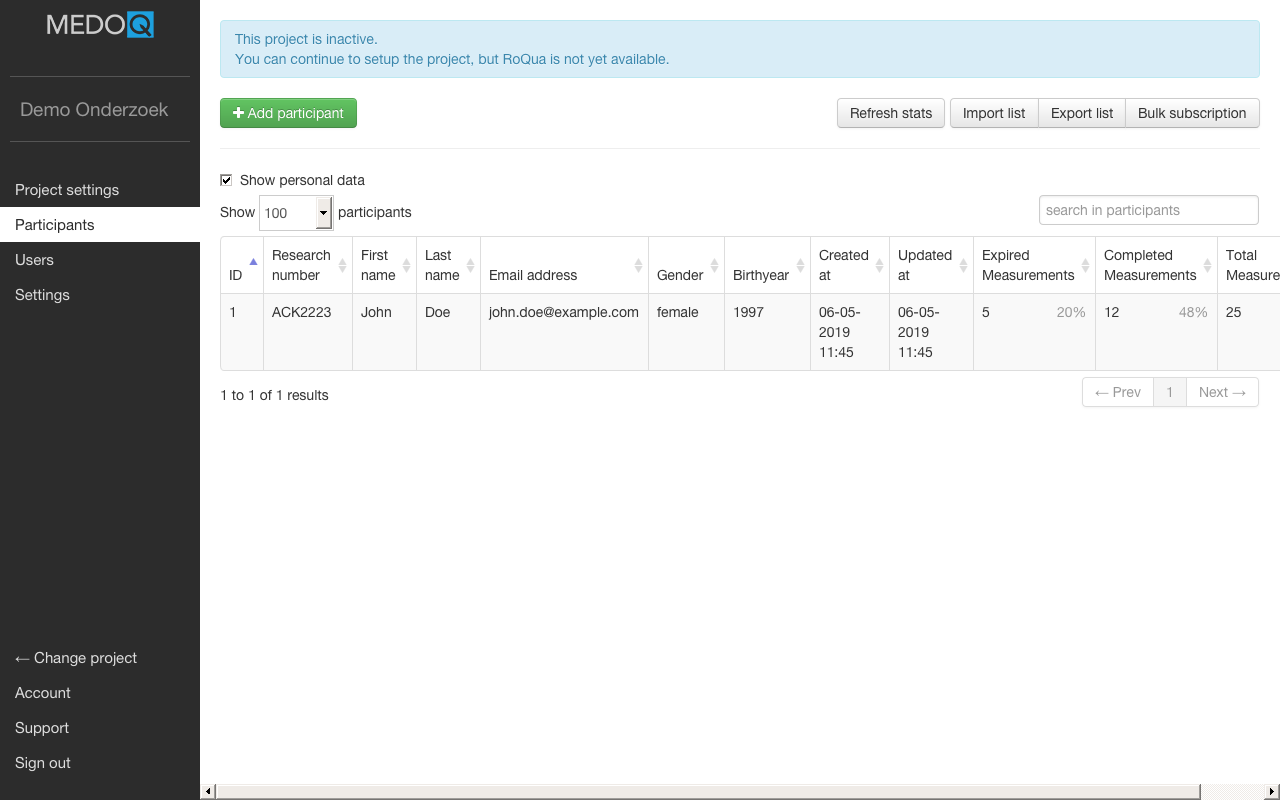
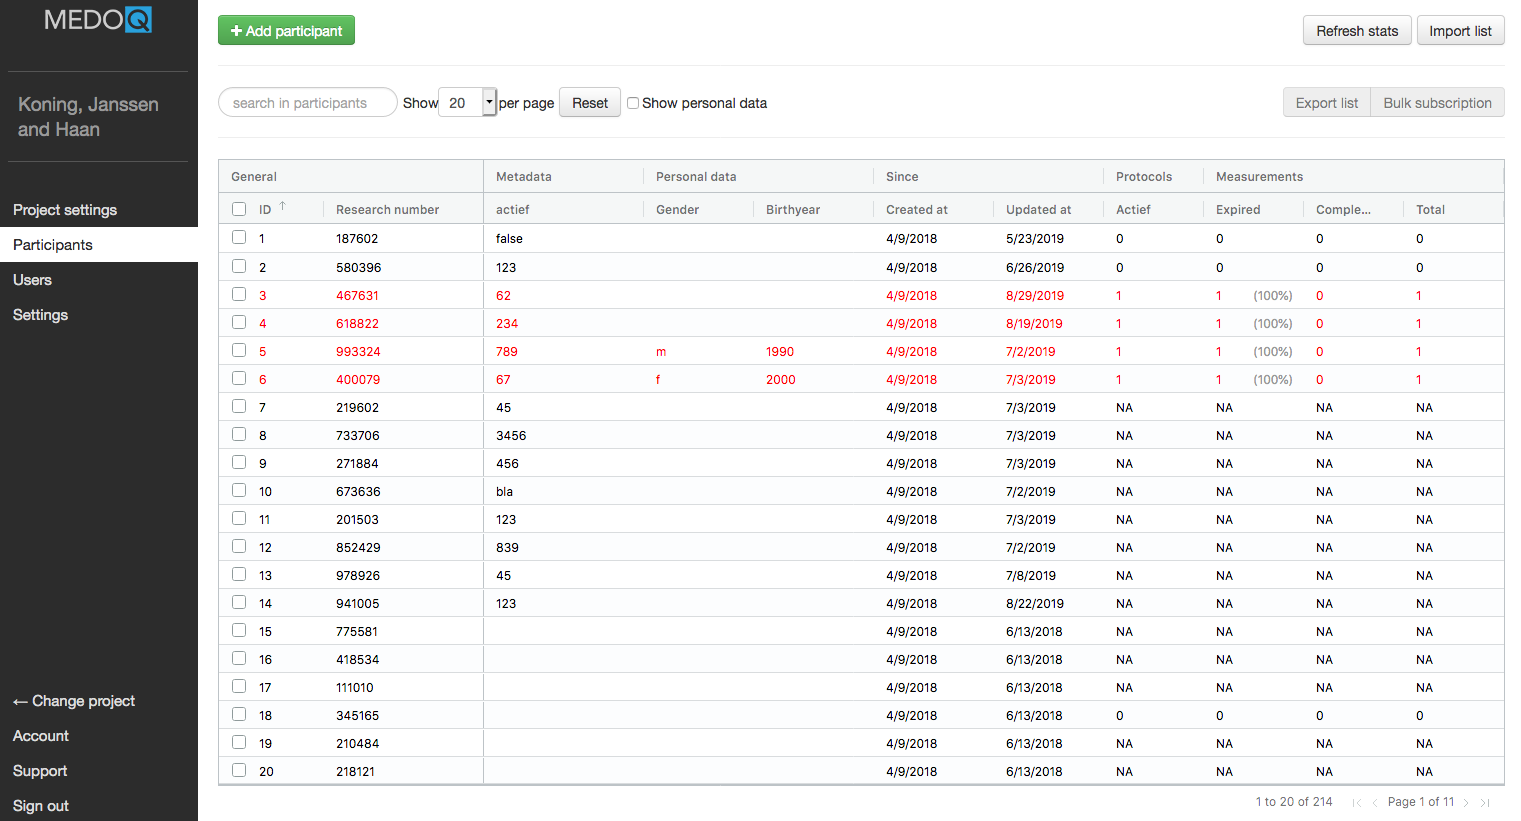
Update screenshots and add docs for new people overview table

diff --git a/content/en/medo_manual/werken_met_deelnemers.md b/content/en/medo_manual/werken_met_deelnemers.md
@@ -14,28 +14,39 @@ This page contains a table of project participants. Clicking on the column heade
 
 ### Privacy
 
-By clicking on the checkbox *Show personal data*, you can change the visibility of the table columns containing personal information. Clicking on a row in the table shows more information about the participant and allows opening RoQua for that participant.
+By clicking on the checkbox *Show personal data*, you can change the visibility of the table columns containing personal information. Double-clicking on a row in the table shows more information about the participant and allows opening RoQua for that participant.
 
 ### Statistics
 
-There are three statistics to be found on the right hand of the table:
+There are four statistics to be found on the right hand of the table:
 
+* **Active Protocols** show how many active protocols there are for the participant
 * **Expired Measurements** shows how many measurements are expired (not filled in before their expiry date)
 * **Completed Measurements** shows how many measurements are filled in
 * **Total Measurements** shows how many measurements were prepared in total
 
+### Metadata
+
+Metadata fields can be edited directly in the overview. Click on a metadata field and press enter.
+Enter a new value in the input field and press enter again to save the new value.
+
 ### Import and Export
 
-Collectors and coordinators are allowed to export the list of participants and import participants from a CSV file. Clicking on the **Import List** button brings you to a page explaining the file format for importing participants. The **Export list** button downloads a CSV-file with all personal information (excluding filled out responses) of the participants. This exported file is suitable for opening in Excel.
+Collectors and coordinators are allowed to export the list of participants and import participants from a CSV file. Clicking on the **Import List** button brings you to a page explaining the file format for importing participants. The **Export list** button downloads a CSV-file with all personal information (excluding filled out responses) of the participants. This exported file is suitable for opening in Excel. You have to select participants first with the checkboxes at the left of the table. Click on the topmost checkbox to select all participants.
+
 
 <div class="alert alert-error">
   <strong>Attention!</strong>
-  Do not import an exported file of participants. Importing any file will only create new participants for every row, so this will duplicate the participants already present. 
+  Do not import an exported file of participants. Importing any file will only create new participants for every row, so this will duplicate the participants already present.
 </div>
+
+### Bulk subscription
+
+Select participants with the checkboxes on the left, or use the topmost checkbox to select all participants, and click on the *Bulk subscription* button to subscribe participants to a protocol in RoQua.
 
 ## Showing participants
 
-By clicking on a row in the participant index, a page with extended information about the participant is show. This page is split up between anonymized and personal information. Only collectors and coordinators are allowed to view the personal information. Anonymized information can be viewed by researchers.
+By double-clicking on a row in the participant index, a page with extended information about the participant is show. This page is split up between anonymized and personal information. Only collectors and coordinators are allowed to view the personal information. Anonymized information can be viewed by researchers.
 
 <img src='/assets/images/screenshots/medo/en/deelnemersdetail.png' />
 

diff --git a/content/nl/medo_manual/werken_met_deelnemers.md b/content/nl/medo_manual/werken_met_deelnemers.md
@@ -19,15 +19,23 @@ achternaam en het e-mailadres van deelnemers bekijken.
 ### Privacy
 
 Door de optie *Persoonsgegevens tonen* uit te vinken kunnen deze gegevens ook verborgen
-worden. Klik op een rij om meer informatie over de deelnemer te bekijken, en naar RoQua te gaan.
+worden. Dubbelklik op een rij om meer informatie over de deelnemer te bekijken, en naar RoQua te gaan.
 
 ### Statistieken
 
-Rechts in de tabel zijn drie statistieken opgenomen:
+Rechts in de tabel zijn vier statistieken opgenomen:
 
+* **Active Protocollen** geeft aan hoeveel actieve protocollen er zijn voor deze deelnemer
 * **Gemiste Metingen** geeft aan hoeveel metingen er gemist zijn
 * **Ingevulde Metingen** geeft aan hoeveel er ingevuld zijn
 * **Totaal Metingen** geeft aan hoeveel metingen er in totaal klaargezet zijn
+
+### Metadata
+
+De metadata velden zijn direct aan te passen in het overzicht. Klik eenmaal op het
+metadata veld en druk op de enter toets. Er verschijnt nu een invoer veld waar een
+nieuwe waarde ingevoerd kan worden. Druk opnieuw op de enter toets om de nieuwe
+waarde op te slaan.
 
 ### Import en Export
 
@@ -35,7 +43,9 @@ Ook is het voor verzamelaars en coördinatoren mogelijk om de deelnemerslijst te
 exporteren en nieuwe deelnemers te importeren. Als u op de **Lijst importeren**
 knop drukt krijgt u een pagina te zien met toelichting over het aan te leveren
 csv-bestand. Door op **Lijst exporteren** te drukken krijgt u een csv-bestand
-met daarin alle gegevens van de deelnemers, dat in o.a. Excel te openen is.
+met daarin alle gegevens van de deelnemers, dat in o.a. Excel te openen is. U dient
+eerst de gewenste deelnemers te selecteren met de checkboxes links in de tabel.
+U kunt alle deelnemers selecteren door op de bovenste checkbox in de header te klikken.
 
 <div class="alert alert-error">
   <strong>Let op!</strong>
@@ -43,9 +53,15 @@ met daarin alle gegevens van de deelnemers, dat in o.a. Excel te openen is.
   project probeert te importeren. Daardoor zal ongewenste dubbele data ontstaan.
 </div>
 
+### Bulk aanmelding
+
+Selecteer deelnemers via de checkboxes links in de tabel, of gebruik de checkbox
+helemaal bovenin om alle deelnemers te selecteren, en klik op de *Bulk aanmelding*
+knop om meerdere deelnemers tegelijkertijd te abonneren op een protocol in RoQua.
+
 ## Deelnemer weergeven
 
-Door te klikken op een van de deelnemers in het deelnemerslijst, komt u op de
+Door te dubbelklikken op een van de deelnemers in het deelnemerslijst, komt u op de
 pagina met de Uitgebreide informatie over de deelnemer. Deze informatie is
 opgesplitst in geanonimiseerde gegevens en persoonsgegevens. Alleen
 verzamelaars en coördinatoren kunnen de persoonsgegevens bekijken. De anonieme
